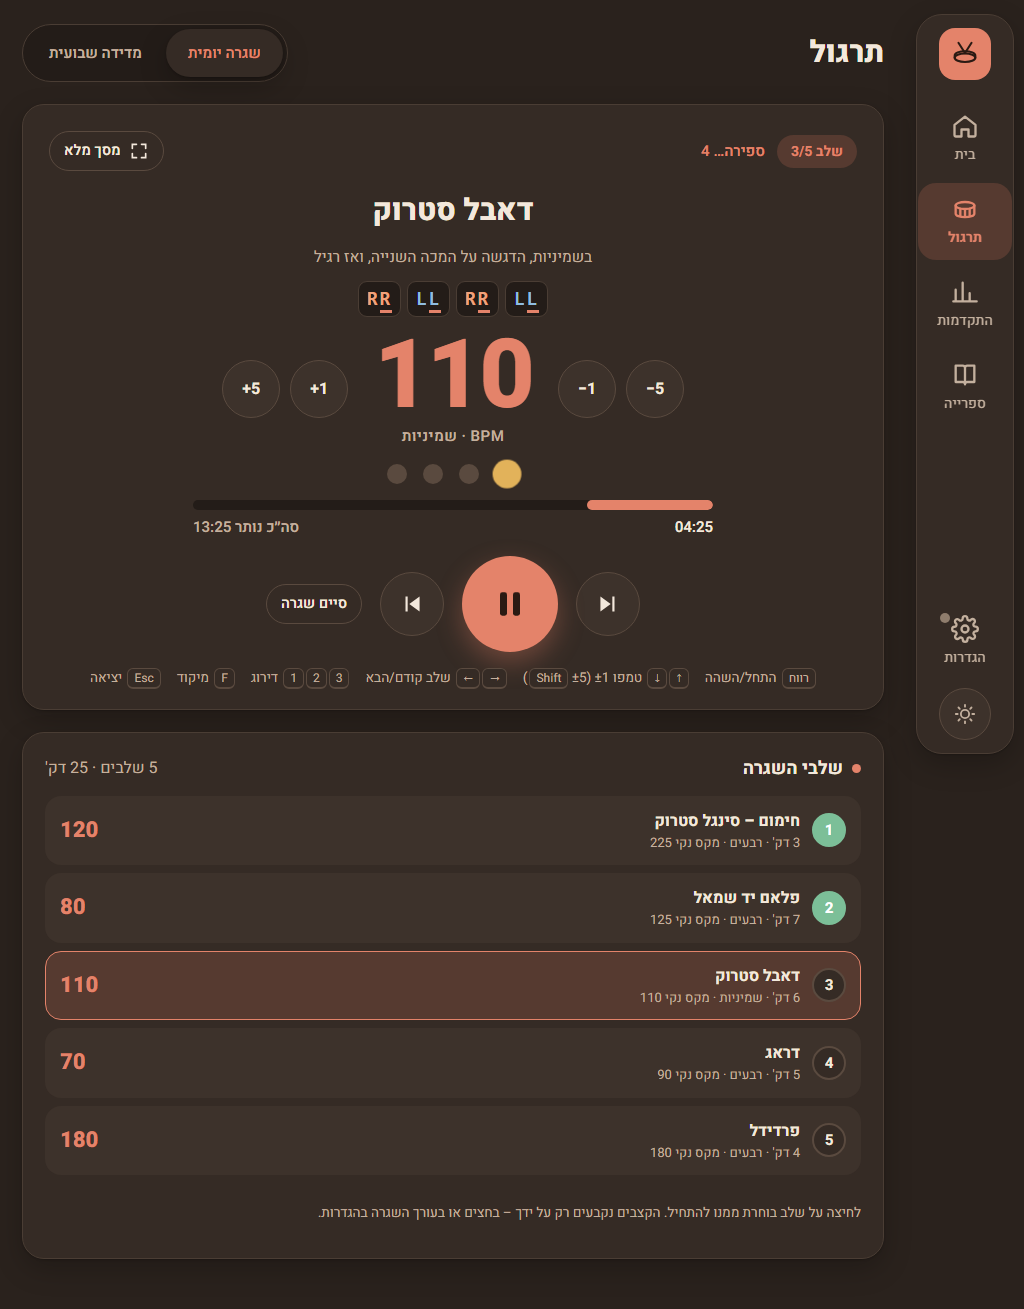
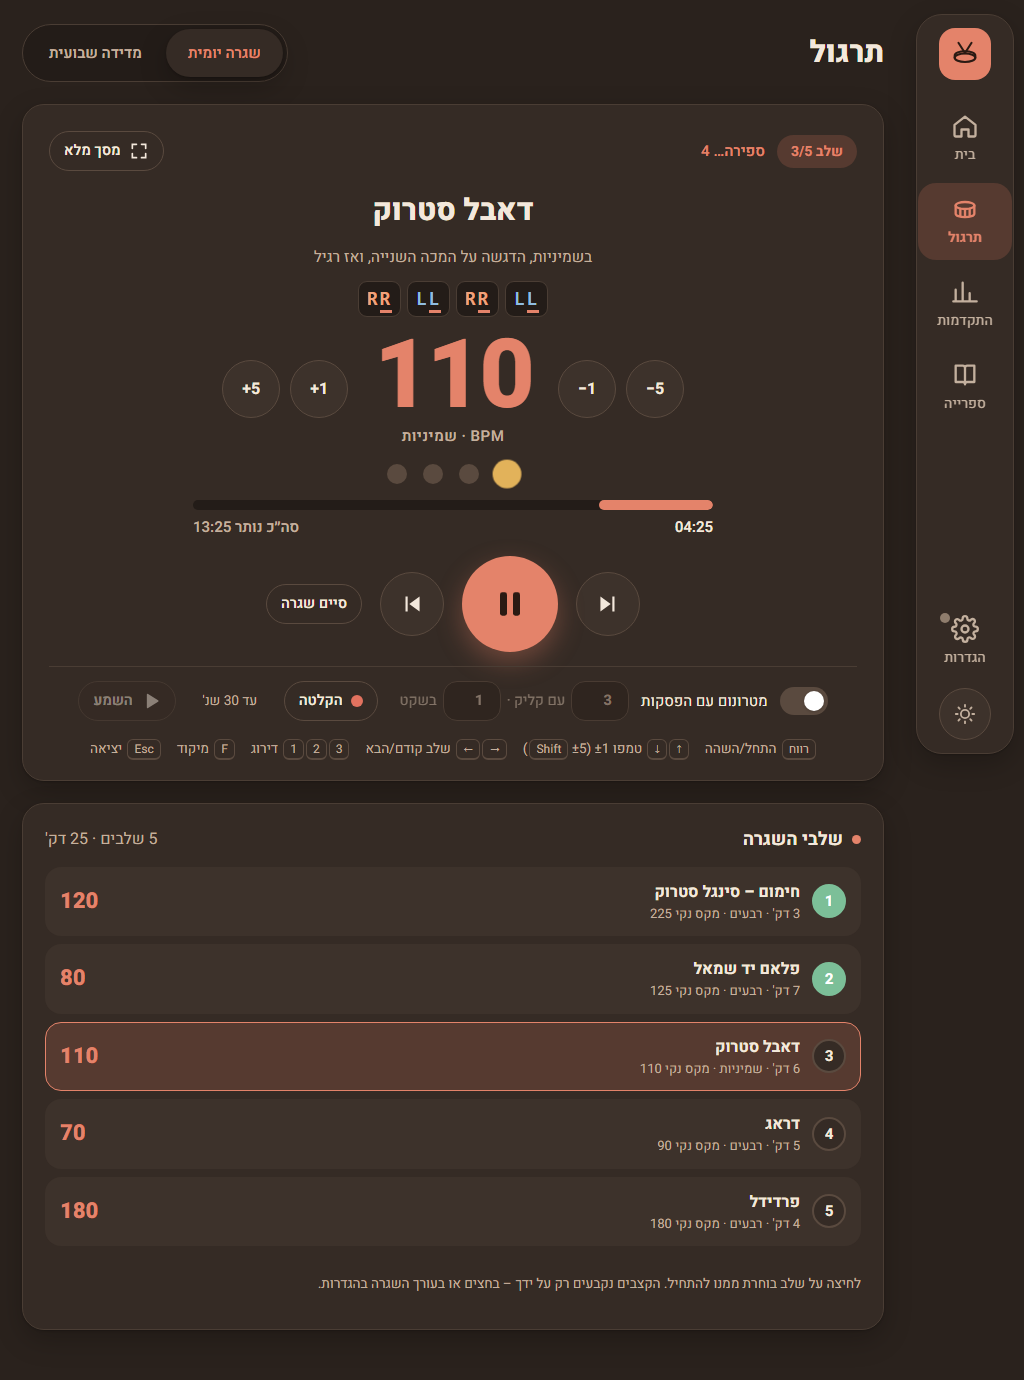
Refresh screenshots; add +4 BPM suggestion, recorder and gap metronome shots

diff --git a/scripts/screenshots.js b/scripts/screenshots.js
@@ -25,6 +25,9 @@ async function shoot(browser, view, theme) {
   entries.flamL.push({ date: '2026-10-18T09:00:00.000Z', kind: 'work', work: 85, clean: null, hard: null, broke: [], notes: '', rating: 'ok' });
   entries.flamL.push({ date: '2026-10-18T19:00:00.000Z', clean: 125, hard: 135, broke: [], notes: '', breakBpm: 140, src: 'measure' });
   entries.drag.push({ date: '2026-10-18T09:20:00.000Z', kind: 'work', work: 72, clean: null, hard: null, broke: [], notes: '', rating: 'clean' });
+  // two clean takes at the step-3 tempo → rating it clean once more shows the +4 BPM suggestion
+  entries.d_acc2.push({ date: '2026-10-17T09:30:00.000Z', kind: 'work', work: 110, clean: null, hard: null, broke: [], notes: '', rating: 'clean' });
+  entries.d_acc2.push({ date: '2026-10-18T09:30:00.000Z', kind: 'work', work: 110, clean: null, hard: null, broke: [], notes: '', rating: 'clean' });
   entries.double8.push({ date: '2026-10-18T19:10:00.000Z', clean: 170, hard: 180, broke: [], notes: '', breakBpm: 185, src: 'measure' });
   const plan = JSON.parse(JSON.stringify(data.plan));
   plan.days['2026-10-17'] = 1; plan.days['2026-10-18'] = 1;
@@ -38,6 +41,16 @@ async function shoot(browser, view, theme) {
     localStorage.setItem(K + '-v2meta', JSON.stringify({ migrated: true, at: '2026-10-19T07:00:00.000Z', fromV1: true }));
     sessionStorage.setItem('__seeded', '1');
   }, { K, entries, plan, theme });
+
+  // fake microphone so the recorder can be shown (nothing is captured)
+  await page.addInitScript(() => {
+    const md = navigator.mediaDevices || {};
+    md.getUserMedia = () => Promise.resolve({ getTracks: () => [{ stop() {} }] });
+    if (!navigator.mediaDevices) Object.defineProperty(navigator, 'mediaDevices', { value: md });
+    window.MediaRecorder = class { constructor() { this.mimeType = 'audio/webm'; this.state = 'inactive'; }
+      static isTypeSupported() { return true; } start() { this.state = 'recording'; }
+      stop() { this.state = 'inactive'; setTimeout(() => { this.ondataavailable({ data: new Blob(['x']) }); this.onstop(); }, 0); } };
+  });
 
   const file = (n) => path.join(OUT, `${n}-${theme}-${view.name}.png`);
   const go = async (hash) => { await page.goto(URL + '#' + hash); await page.waitForFunction(() => !!window.__rt); await page.evaluate(() => document.fonts && document.fonts.ready); await page.waitForTimeout(250); };
@@ -57,7 +70,24 @@ async function shoot(browser, view, theme) {
   // rest + rating prompt
   await page.clock.fastForward(6 * 60000);
   await snap('04-practice-rating');
+  // third clean in a row at this tempo → one-tap +4 BPM suggestion
+  await page.click('#restPanel [data-rate="clean"]');
+  await snap('09-practice-raise');
   await page.evaluate(() => window.RT.practice.stop());
+
+  // recorder (recording, with countdown) + gap metronome switched on
+  await go('practice');
+  await page.locator('#gapTool .sw').click();
+  await page.evaluate(() => window.RT.practice.start(0));
+  await page.clock.fastForward(2300);
+  await page.clock.fastForward(20000);
+  await page.click('#recBtn');
+  await page.clock.runFor(7000);
+  await snap('10-practice-tools');
+  await page.click('#recBtn');
+  await page.clock.runFor(200);
+  await snap('11-practice-playback');
+  await page.evaluate(() => { window.RT.practice.stop(); window.RT.metro.setGap({ on: false }); });
 
   await go('measure');
   await page.selectOption('#mSub', 'flamL');
